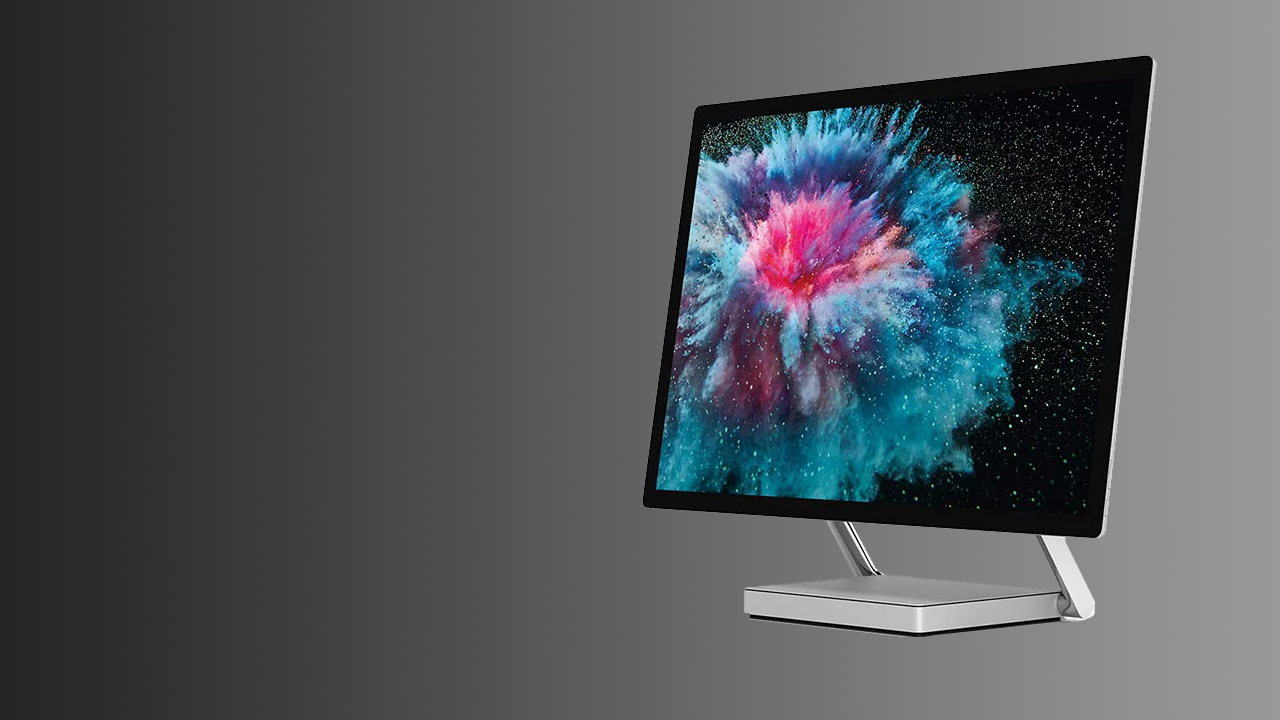
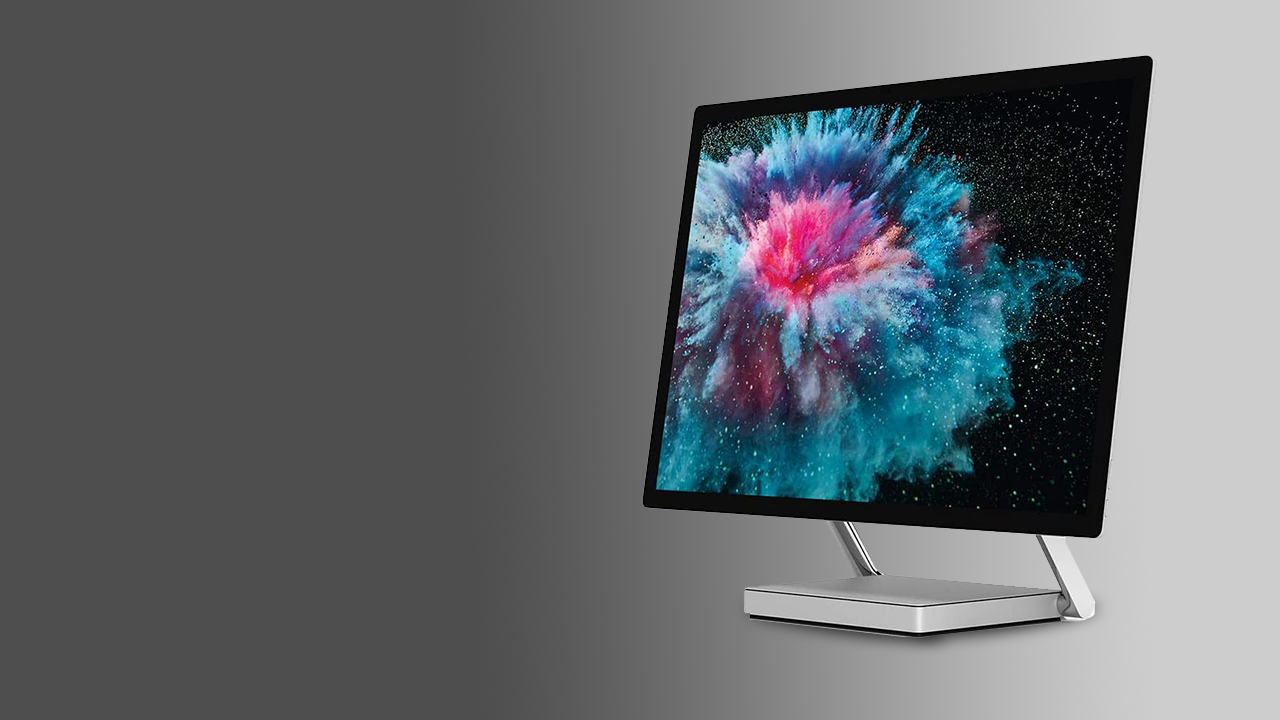
added main product images

diff --git a/src/components/FeaturedProductsCarousel.vue b/src/components/FeaturedProductsCarousel.vue
@@ -36,11 +36,11 @@
 </template>
 
 <script>
-import product1Img from '../assets/img/product-1.jpg'
-import product2Img from '../assets/img/product-2.jpg'
-import product3Img from '../assets/img/product-3.jpg'
-import product4Img from '../assets/img/product-4.jpg'
-import product5Img from '../assets/img/product-5.jpg'
+import product1Img from '../assets/img/main-product-1.png'
+import product2Img from '../assets/img/main-product-2.png'
+import product3Img from '../assets/img/main-product-3.png'
+import product4Img from '../assets/img/main-product-4.png'
+import product5Img from '../assets/img/main-product-5.png'
 export default {
   name: 'FeaturedProductsCarousel',
   data() {
@@ -54,27 +54,27 @@ export default {
       ],
       featuredProducts: [
         {
-          title: 'Some Product 1',
+          title: 'Surface Studio 2  ',
           description:
             'Lorem ipsum dolor sit amet consectetur adipisicing elit. '
         },
         {
-          title: 'Some Product 2',
+          title: 'iMac Pro',
           description:
             'Lorem ipsum dolor sit amet consectetur adipisicing elit. '
         },
         {
-          title: 'Some Product 3',
+          title: 'Logitech Mouse',
           description:
             'Lorem ipsum dolor sit amet consectetur adipisicing elit. '
         },
         {
-          title: 'Some Product 4',
+          title: 'Alienware',
           description:
             'Lorem ipsum dolor sit amet consectetur adipisicing elit. '
         },
         {
-          title: 'Some Product 5',
+          title: 'Corsair Dominator Platinum RBG',
           description:
             'Lorem ipsum dolor sit amet consectetur adipisicing elit. '
         }

diff --git a/src/components/DealsOfTheDay.vue b/src/components/DealsOfTheDay.vue
@@ -74,7 +74,9 @@ export default {
 <style lang="scss" scoped>
 .deals-of-the-day {
   height: 400px;
-  background: linear-gradient(to bottom right, rgb(1, 8, 116), rgb(3, 5, 24));
+  background-image: url('../assets/img/bg-deals-of-the-day.png');
+  background-size: cover;
+  background-position: center;
   color: #fff;
   display: grid;
   grid-template-columns: 300px auto;
